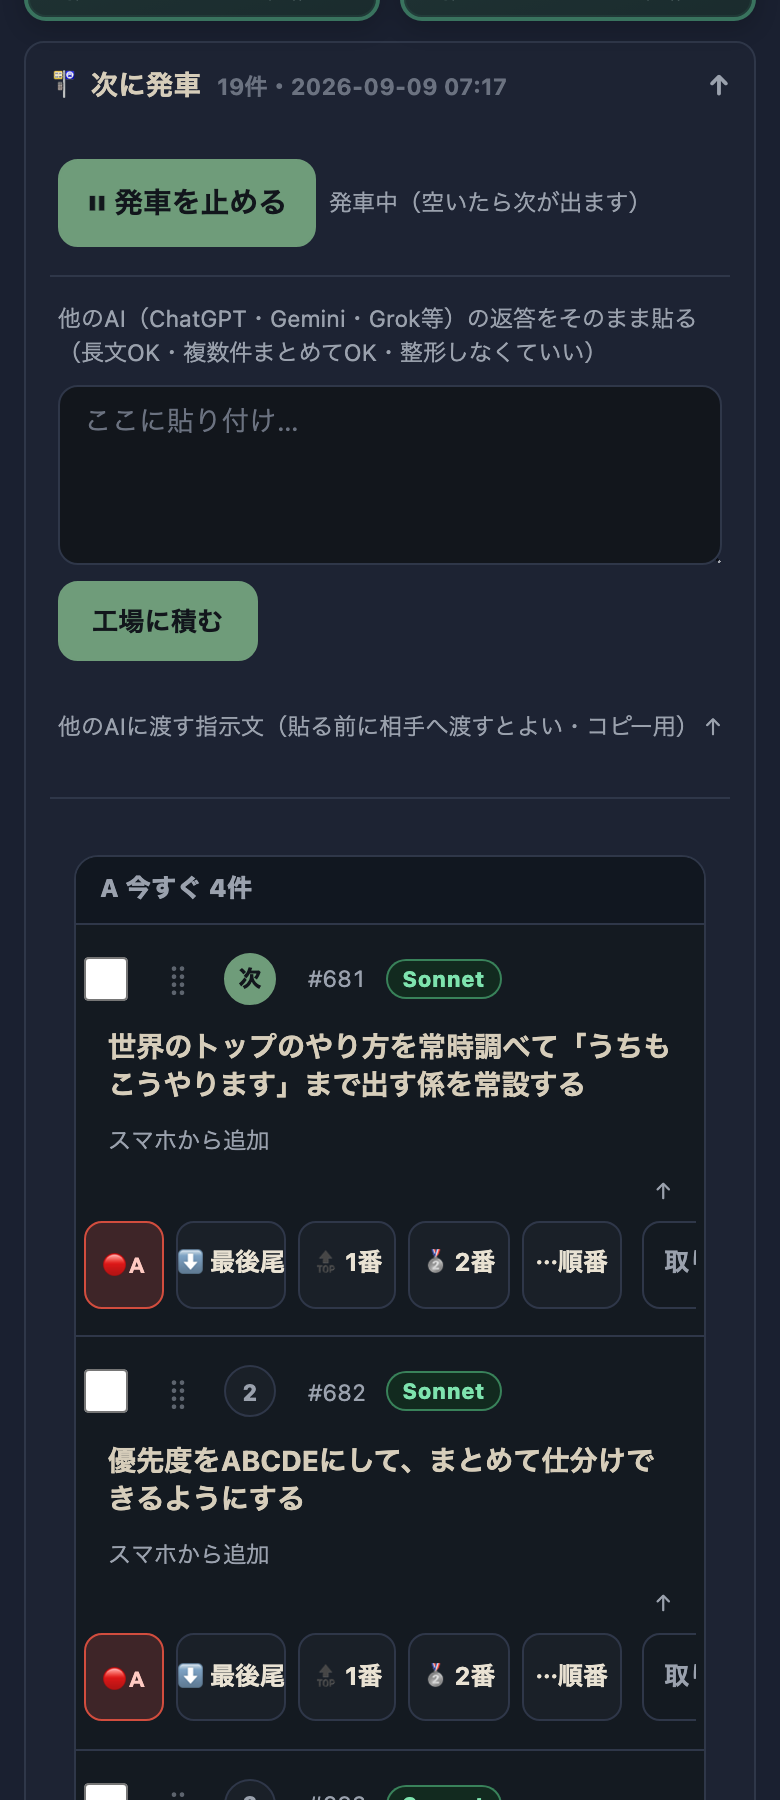
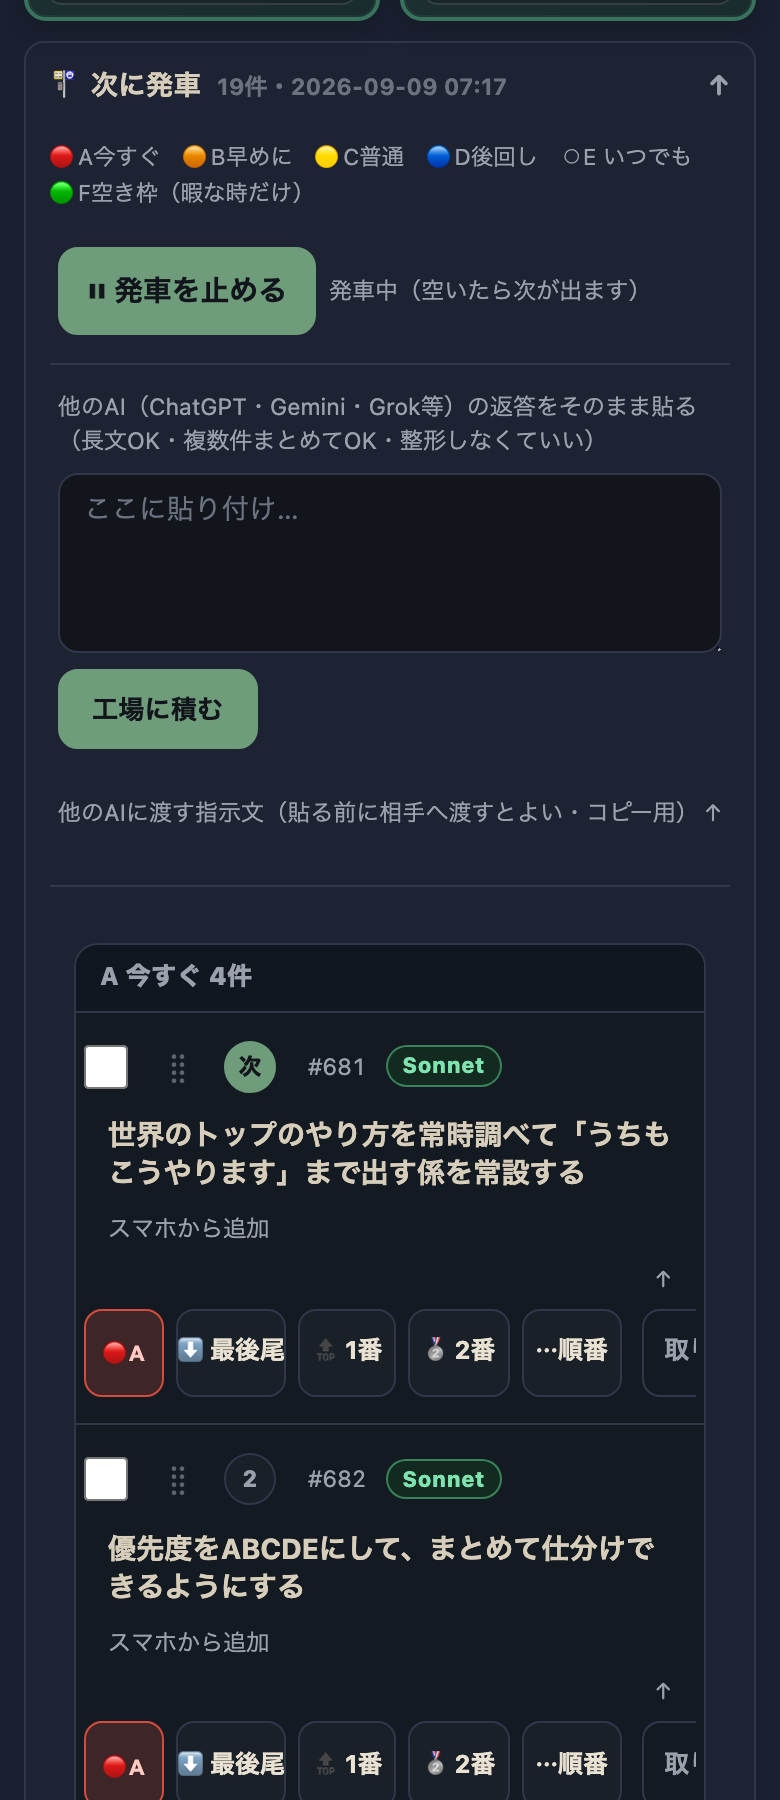
status: Mac負荷 07:57

diff --git a/share/check/682-priority-abcde.html b/share/check/682-priority-abcde.html
@@ -1,0 +1,90 @@
+<!DOCTYPE html>
+<html lang="ja">
+<head>
+<meta charset="UTF-8">
+<meta name="viewport" content="width=device-width,initial-scale=1,viewport-fit=cover">
+<meta name="robots" content="noindex,nofollow">
+<title>#682 優先度をABCDEに・まとめて仕分け 確認ページ</title>
+<style>
+  :root{--bg:#f4efe4;--ink:#2a2a2a;--sub:#7a7568;--line:#e2dccd;--aka:#c4483a;--ao:#3a5f7a;--midori:#3a7a52;}
+  *{box-sizing:border-box;}
+  body{margin:0;padding:calc(env(safe-area-inset-top) + 20px) 16px calc(env(safe-area-inset-bottom) + 40px);background:var(--bg);color:var(--ink);
+    font-family:-apple-system,BlinkMacSystemFont,"Hiragino Sans","Yu Gothic",sans-serif;font-size:16px;line-height:1.7;max-width:760px;margin-left:auto;margin-right:auto;}
+  a{color:var(--ao);}
+  h1{font-family:"Hiragino Mincho ProN","Yu Mincho",serif;font-weight:400;font-size:1.3rem;letter-spacing:0.06em;margin:0 0 6px;}
+  .date{color:var(--sub);font-size:0.8rem;margin-bottom:22px;}
+  h2{font-family:"Hiragino Mincho ProN","Yu Mincho",serif;font-weight:400;font-size:1.05rem;letter-spacing:0.06em;margin:34px 0 12px;color:var(--sub);}
+  .fix{border-left:3px solid var(--midori);padding:4px 0 4px 14px;margin:0 0 20px;font-size:1.05rem;}
+  .nums{display:flex;gap:14px;flex-wrap:wrap;margin:0 0 10px;}
+  .num{background:#fff;border:1px solid var(--line);border-radius:10px;padding:14px 18px;min-width:140px;}
+  .num b{display:block;font-size:1.6rem;line-height:1.2;}
+  .num span{color:var(--sub);font-size:0.8rem;}
+  .note{background:#fff;border:1px solid var(--line);border-radius:10px;padding:12px 15px;font-size:0.9rem;margin:0 0 10px;}
+  ul.links{list-style:none;margin:0;padding:0;}
+  ul.links li{background:#fff;border:1px solid var(--line);border-radius:10px;padding:12px 15px;margin:0 0 10px;}
+  ul.links li b{display:block;margin-bottom:4px;}
+  ul.links a{word-break:break-all;font-size:0.92rem;}
+  .shots{display:flex;gap:14px;flex-wrap:wrap;margin:0 0 20px;}
+  .shot{flex:1 1 260px;background:#fff;border:1px solid var(--line);border-radius:12px;padding:12px;}
+  .shot b{display:block;margin-bottom:8px;color:var(--sub);font-size:0.82rem;}
+  .shot img{width:100%;border-radius:8px;border:1px solid var(--line);display:block;}
+  .shot.before b{color:var(--aka);}
+  .shot.after b{color:var(--midori);}
+  .shot.plain b{color:var(--ao);}
+  .shot .meta{display:block;margin-top:6px;font-size:0.78rem;color:var(--sub);}
+  table{width:100%;border-collapse:collapse;background:#fff;border:1px solid var(--line);border-radius:10px;overflow:hidden;font-size:0.86rem;}
+  th,td{padding:8px 10px;border-bottom:1px solid var(--line);text-align:left;vertical-align:top;}
+  th{background:#efe9db;color:var(--sub);font-weight:600;font-size:0.76rem;}
+  tr:last-child td{border-bottom:none;}
+  .yes{color:var(--midori);font-weight:700;}
+  .no{color:var(--aka);}
+  footer{color:var(--sub);font-size:0.78rem;margin-top:40px;line-height:1.6;}
+</style>
+</head>
+<body>
+<div class="date"><a href="../">共有資料の一覧</a> ／ 確認ページ #682 優先度をABCDEに・まとめて仕分け</div>
+<h1>#682 優先度をABCDEに・まとめて仕分け</h1>
+<div class="date">2026-09-09 実装・main合流・本番(GitHub Pages)反映まで実測確認</div>
+
+<div class="fix">
+発車待ちの優先度表示を数字1〜5からA〜Eの文字に変更。開きっぱなしで閉じなかった「順番指定」ポップオーバーを修正（選ぶ・外側タップ・同じボタン再タップの3通りで必ず閉じる／同時に2つ開かない）。チェックボックスで何件でも選び、上のバーからA〜F・最後尾を1タップで一括適用できる一括仕分けを新設。F（空き枠）は発車待ちが空の時だけ動く安全な追加枠。「2番目へ」ボタンも追加、1行の高さも圧縮した。
+</div>
+
+<h2>② 数字</h2>
+<div class="nums">
+  <div class="num"><b>19件</b><span>発車待ちの実件数（本番）</span></div>
+  <div class="num"><b>5件→2ファイル</b><span>Node.jsテスト:ポップオーバー開閉10項目pass・逆テストで2項目fail確認</span></div>
+  <div class="num"><b>5番号</b><span>queue.jsonで実測: 1,4,6番→D／20番→A／17番→最後尾(E)、その後全部元に戻した</span></div>
+</div>
+
+<h2>③ 実データでのスクリーンショット</h2>
+<div class="shots">
+  <div class="shot plain"><b>①発車待ち全体（A〜F箱・凡例）</b><img src="img/682-queue-overview.png" alt="①発車待ち全体（A〜F箱・凡例）"><span class="meta">ヘッドレスChromeで本番を実機取得</span></div>
+  <div class="shot plain"><b>②ポップオーバーは同時に1つだけ</b><img src="img/682-jumpmenu-open.png" alt="②ポップオーバーは同時に1つだけ"><span class="meta">「この箱の中で何番目にする？」と見出しも追加</span></div>
+  <div class="shot plain"><b>③一括仕分けバー（選択中→A〜F/最後尾）</b><img src="img/682-bulk-select.png" alt="③一括仕分けバー（選択中→A〜F/最後尾）"><span class="meta">チェックを入れると上に固定バーが出る</span></div>
+  <div class="shot plain"><b>④「2番目へ」ボタン</b><img src="img/682-second-button.png" alt="④「2番目へ」ボタン"><span class="meta">🔝1番・🥈2番・⋯順番・取消が横並び</span></div>
+</div>
+
+<h2>④ 押せるリンク</h2>
+<ul class="links">
+  <li><b>本番（発車待ち一覧）</b><a href="https://tamago2022.github.io/tamago-shinchoku/index.html#queueSec" target="_blank" rel="noopener">https://tamago2022.github.io/tamago-shinchoku/index.html#queueSec</a></li>
+  <li><b>変更コミット1（本体）</b><a href="https://github.com/tamago2022/tamago-shinchoku/commit/431f8af" target="_blank" rel="noopener">https://github.com/tamago2022/tamago-shinchoku/commit/431f8af</a></li>
+  <li><b>変更コミット2（一括仕分けバー修正）</b><a href="https://github.com/tamago2022/tamago-shinchoku/commit/17df83b" target="_blank" rel="noopener">https://github.com/tamago2022/tamago-shinchoku/commit/17df83b</a></li>
+</ul>
+
+<h2>⑤ 何をどう確かめたか</h2>
+<table>
+<tr><th>確認項目</th><th>結果</th></tr>
+<tr><td>「1,2,3,4,5」ポップオーバーが閉じない・2つ見える</td><td class="yes">直った（選択/外側タップ/再タップで閉じる・同時に1つだけ）</td></tr>
+<tr><td>優先度の表示が数字1〜5</td><td class="yes">A〜Eの文字表示に変更（中身の数字は同じ・発車の順番ロジックは無改造）</td></tr>
+<tr><td>F（空き枠）新設</td><td class="yes">A〜Eの発車待ちが1本でもあれば絶対に発車しない安全弁を追加</td></tr>
+<tr><td>複数件をまとめて仕分け</td><td class="yes">チェックボックス＋一括バーで1〜100件を数タップで変更可能</td></tr>
+<tr><td>「2番目へ」ワンタップ</td><td class="yes">追加済み（緊急対応をすぐ2番目へ繰り上げ）</td></tr>
+<tr><td>1行の高さ</td><td class="yes">題名2行まで・ボタンは横スクロール帯に圧縮</td></tr>
+</table>
+
+<footer>
+queue.jsonへの反映はcommand_ingest.pyのqueue_prio()を実際に呼び出し、1,4,6番→D／20番→A／17番→最後尾(E)へ書き換わることを確認した後、全部を元の優先度なしへ戻した（テストのため本物のたまごさんの並びを一時的に変えたが、確認後に必ず復元済み）。
+</footer>
+</body>
+</html>

diff --git a/status/failures.md b/status/failures.md
@@ -211,3 +211,15 @@
 - **二度と起こさないための仕掛け**：発生源（auto_launcher.pyのURL抽出）と検品側（verify_check_pages.pyのhttp_get）の両方に終端文字の防御を入れたので、今後同じ書き方の完了報告が来ても、urls欄はクリーンなURLだけになる。次に「実測すると404なのに仕事は終わっている」という報告が来たら、まずqueue.jsonの該当urls欄に日本語・全角括弧が混ざっていないかを最初に疑う。
 - **日付**：2026-09-09（668番）
 - **根拠**：`status/_668_link_audit_result.json`（255本のURLを実測し記録ミス10本を特定した生ログ）、`status/queue.json`のn=420の`urlsFixedNote`、`git log`（`tools/auto_launcher.py`・`tools/verify_check_pages.py`の該当コミット）
+
+---
+
+## 20. renderQueue()内のローカルconstをグローバル関数から呼ぶと、画面が壊れずに機能だけ黙って死ぬ
+
+- **症状**：682番（優先度A〜E化・一括仕分け）で、チェックボックスで複数選び上部に「選択中N件」バーを出す`qBulkBarHtml()`を実装したが、本番で実際に2件チェックしても**一度もバーが出なかった**。エラーもコンソールに出ているだけで、画面上は「何も起きない」という一番気づきにくい壊れ方だった。
+- **原因**：`qBulkBarHtml()`をグローバルスコープの関数として書いたが、色付きドットの配列`PRIO_DOT`（`🔴A`等）は元々`renderQueue()`関数の**内側**で`const`宣言されていた（同じ関数内の`qPrioHtml`から使うためだけに置かれていた）。`qBulkBarHtml()`から`PRIO_DOT`を参照すると`ReferenceError: PRIO_DOT is not defined`が発生していたが、これは`document.addEventListener("click", ...)`のハンドラ内で投げられる例外で、**呼び出し元が握りつぶす作りにはなっていないのに、画面上は真っ白にもならず、ただ「バーが描画されない」だけ**という地味な壊れ方をした（チェックボックスのchangeイベント自体は正常発火・QSELへの追加も成功していたため、パッと見「選択自体はできているのにバーだけ出ない」という切り分けにくい症状だった）。
+- **直し方**：`PRIO_DOT`をグローバルスコープへ移し（`PRIO_LETTER`/`PRIO_NAME`の隣）、`renderQueue()`内のローカル`const PRIO_DOT`は削除して二重定義を防いだ。
+- **見つけ方**：`tools/oni_kantoku_*_screenshot.mjs`と同じ「headless Chrome + CDP」方式で本番URLを実際に開き、`document.querySelectorAll('.qsel')`でチェックボックスを2つクリック→`document.querySelector('.qbulkbar')`の有無を実機で確認した。目視のスクショだけでなく、**JSを実際に実行してDOMの結果を数字で見る**ことで原因まで特定できた（スクショだけでは「バーが出ていない」までしか分からず、原因の切り分けにはRuntime.evaluateでの直接実行が要った）。
+- **二度と起こさないための仕掛け**：`renderQueue()`のように巨大な関数の中にある定数・小関数を、後から別のグローバル関数が使い回したくなった時は、**先にその定数の定義場所（ローカルかグローバルか）を`grep -n "const XXX"`で確認してから**参照する。同じ名前でローカル/グローバルの二重定義があると、片方を消し忘れて紛らわしくなるので、移動時は必ず元のローカル定義を削除してから構文チェック（`node --check`）とヘッドレスChromeでの実機確認の両方を通す。
+- **日付**：2026-09-09（682番）
+- **根拠**：`index.html`の`PRIO_DOT`定義（グローバル・`PRIO_LETTER`の隣）と`qBulkBarHtml()`、`/tmp/_debug_bulk2.mjs`の実行ログ（`ReferenceError: PRIO_DOT is not defined`→修正後`barExists:true`）
